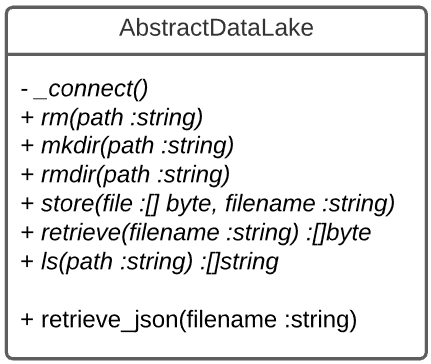
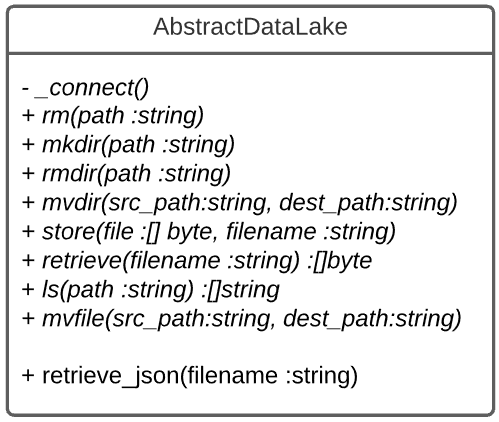
add mv methods

Changed region(s): [[0.0, 0.0, 0.9954, 0.9973]]

diff --git a/AbstractDataLake/__init__.py b/AbstractDataLake/__init__.py
@@ -45,3 +45,11 @@ class AbstractDataLake(ABC):
     def ls(self, path: str) -> [str]:
         """ Returns a list of the content of the specified directory """
         pass
+
+    @abstractmethod
+    def mvdir(self, src_path: str, dest_path: str):
+        pass
+
+    @abstractmethod
+    def mvfile(self, src_path: str, dest_path: str):
+        pass
